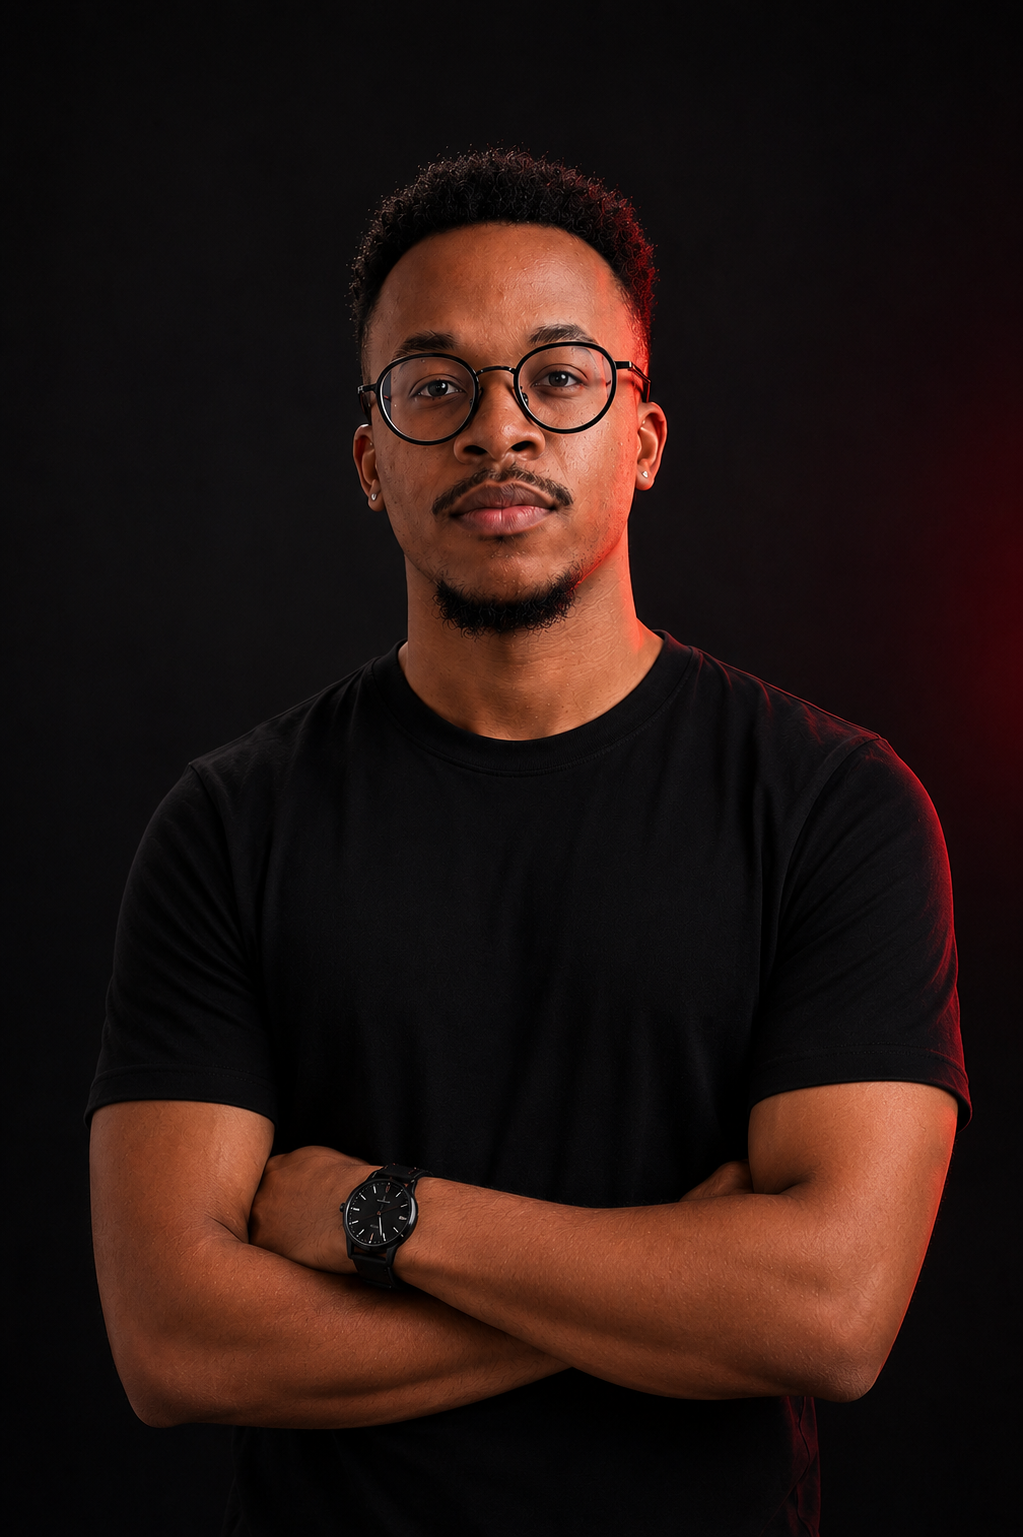
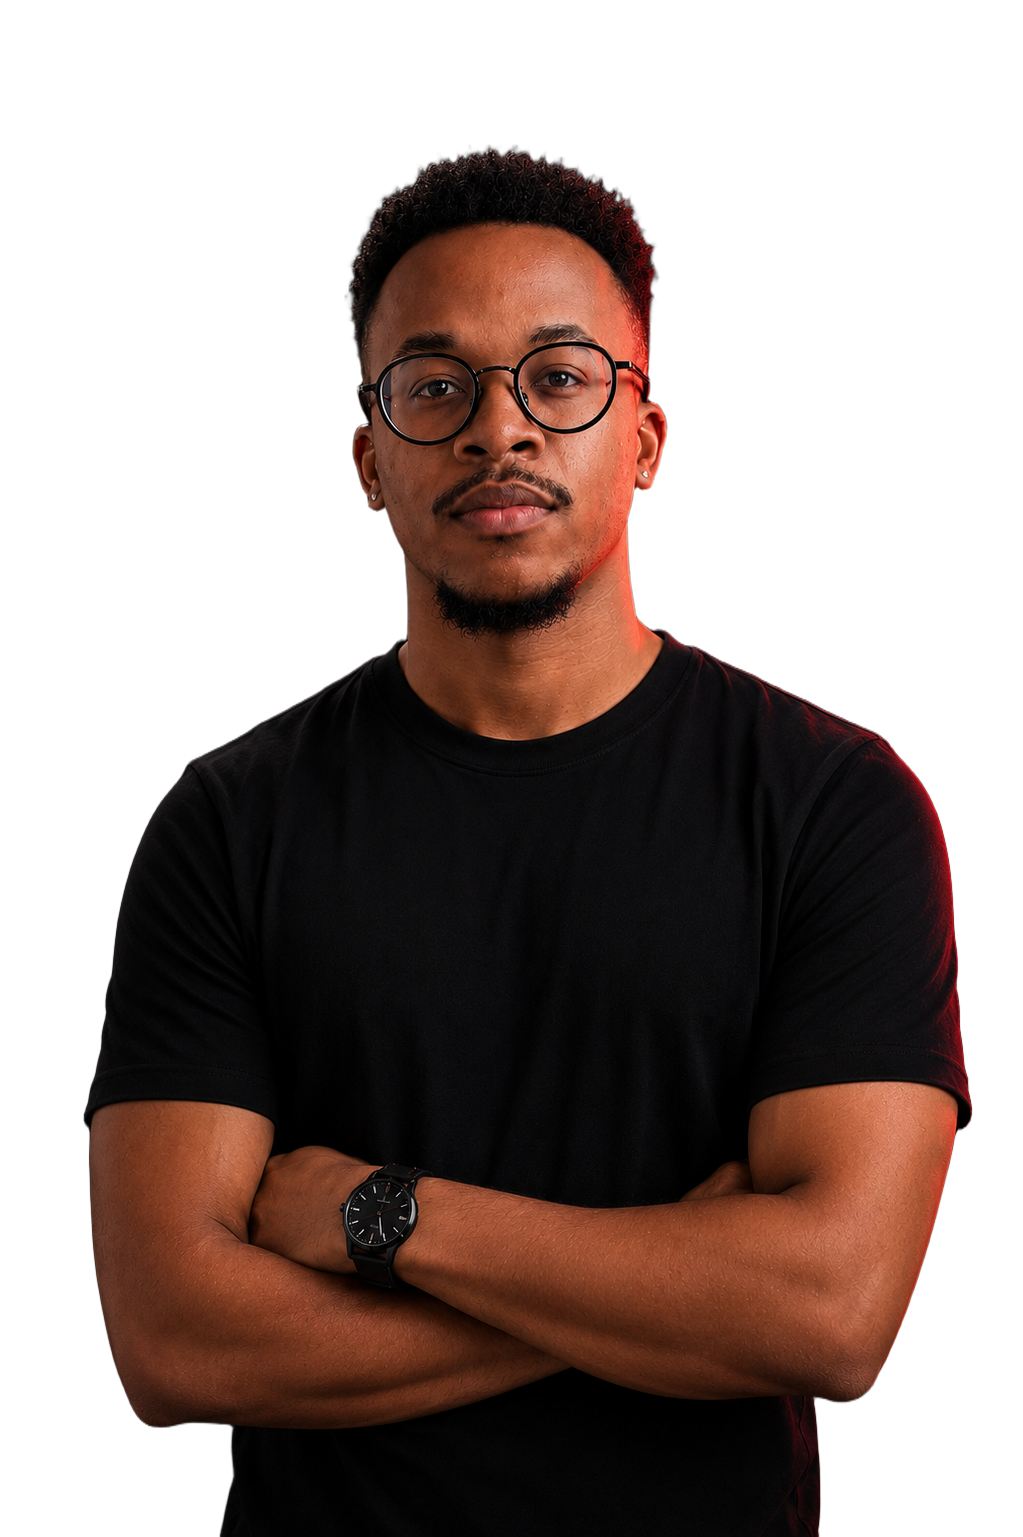
Update website portrait image and social card preview
Remove background from portrait image, normalize styling, and update social media image references to a dedicated asset.

Replit-Commit-Author: Agent
Replit-Commit-Session-Id: 4a89e85a-7851-4cb4-b982-ae47badae62a
Replit-Commit-Checkpoint-Type: full_checkpoint
Replit-Commit-Event-Id: 6c0e21b3-d305-4c83-91ca-5c2179c788b8
Replit-Commit-Screenshot-Url: https://storage.googleapis.com/screenshot-production-us-central1/93272175-47aa-465a-8afd-6645ae32d7b0/4a89e85a-7851-4cb4-b982-ae47badae62a/iBaJZaS
Replit-Helium-Checkpoint-Created: true

diff --git a/artifacts/wandofi/public/styles.css b/artifacts/wandofi/public/styles.css
@@ -304,34 +304,12 @@ ul { list-style: none; margin: 0; padding: 0; }
   width: clamp(220px, 30vw, 440px);
   z-index: 1; /* sits beneath the wordmark and all hero text */
   pointer-events: none;
-  isolation: isolate; /* contain the colour-blend so it only affects the photo */
 }
+/* Background-removed cutout shown naturally, just grounded with a soft shadow */
 .hero__portrait img {
   width: 100%;
   display: block;
-  border-radius: 2px;
-  /* Dissolve every edge into the near-black background so the figure has no seam */
-  -webkit-mask-image:
-    linear-gradient(to bottom, transparent 0%, #000 13%, #000 62%, transparent 100%),
-    linear-gradient(to left, transparent 0%, #000 24%, #000 100%);
-  -webkit-mask-composite: source-in;
-  mask-image:
-    linear-gradient(to bottom, transparent 0%, #000 13%, #000 62%, transparent 100%),
-    linear-gradient(to left, transparent 0%, #000 24%, #000 100%);
-  mask-composite: intersect;
-  filter: contrast(1.07) brightness(0.9) saturate(1.06);
-}
-/* Wash the photo with the same single red light as the rest of the studio */
-.hero__portrait::after {
-  content: "";
-  position: absolute;
-  inset: 0;
-  border-radius: 2px;
-  pointer-events: none;
-  mix-blend-mode: screen;
-  background:
-    radial-gradient(78% 60% at 80% 20%, rgba(225, 37, 27, 0.34), transparent 60%),
-    radial-gradient(60% 50% at 18% 78%, rgba(225, 37, 27, 0.08), transparent 70%);
+  filter: drop-shadow(0 26px 50px rgba(0, 0, 0, 0.55));
 }
 
 .hero__intro {
@@ -603,7 +581,6 @@ ul { list-style: none; margin: 0; padding: 0; }
     width: min(64vw, 300px);
     margin: 2.5rem 0 0 auto;
   }
-  .hero__portrait img { -webkit-mask-image: linear-gradient(to bottom, #000 78%, transparent 100%); mask-image: linear-gradient(to bottom, #000 78%, transparent 100%); }
   .signal__list,
   .services__grid,
   .process__grid { grid-template-columns: 1fr; }

diff --git a/artifacts/wandofi/index.html b/artifacts/wandofi/index.html
@@ -13,12 +13,12 @@
     <meta property="og:url" content="https://wandofi.pt/" />
     <meta property="og:title" content="Wandofi — Migração, criação de sites, SEO e automações · Lisboa" />
     <meta property="og:description" content="Project manager operacional em Lisboa. Migração e criação de sites, SEO técnico e automações para negócios em formação." />
-    <meta property="og:image" content="https://wandofi.pt/assets/portrait.png" />
+    <meta property="og:image" content="https://wandofi.pt/assets/og-portrait.png" />
     <meta property="og:locale" content="pt_PT" />
     <meta name="twitter:card" content="summary_large_image" />
     <meta name="twitter:title" content="Wandofi — project manager operacional · Lisboa" />
     <meta name="twitter:description" content="Migração e criação de sites, SEO técnico e automações para negócios em formação." />
-    <meta name="twitter:image" content="https://wandofi.pt/assets/portrait.png" />
+    <meta name="twitter:image" content="https://wandofi.pt/assets/og-portrait.png" />
 
     <link rel="icon" type="image/svg+xml" href="/favicon.svg" />
 

diff --git a/replit.md b/replit.md
@@ -20,7 +20,7 @@ Dark, single-red-light personal brand site for Mauro Cordeiro (Wandofi) — a pr
 - `artifacts/wandofi/index.html` — all markup + SEO head (canonical, OG/Twitter, JSON-LD Person + ProfessionalService).
 - `artifacts/wandofi/public/styles.css` — all styling, palette and type scale (CSS custom properties at `:root`).
 - `artifacts/wandofi/public/main.js` — all motion (vanilla, uses the CDN globals; full `prefers-reduced-motion` fallback).
-- `artifacts/wandofi/public/assets/` — `portrait.png` (real photo) and `wandofi-pm-logo.png` (the original logo, used as-is in the footer).
+- `artifacts/wandofi/public/assets/` — `portrait.png` (real photo, background removed → transparent cutout for the hero), `og-portrait.png` (original with background, used only for OG/Twitter social cards), and `wandofi-pm-logo.png` (the original logo, used as-is in the footer).
 - `artifacts/wandofi/public/` — `robots.txt`, `sitemap.xml`, `_redirects`, `_headers` (Cloudflare-ready, copied verbatim on build).
 - `artifacts/wandofi/src/global.d.ts` — stub only, so `tsc --noEmit` has an input. No app code in `src/`.
 